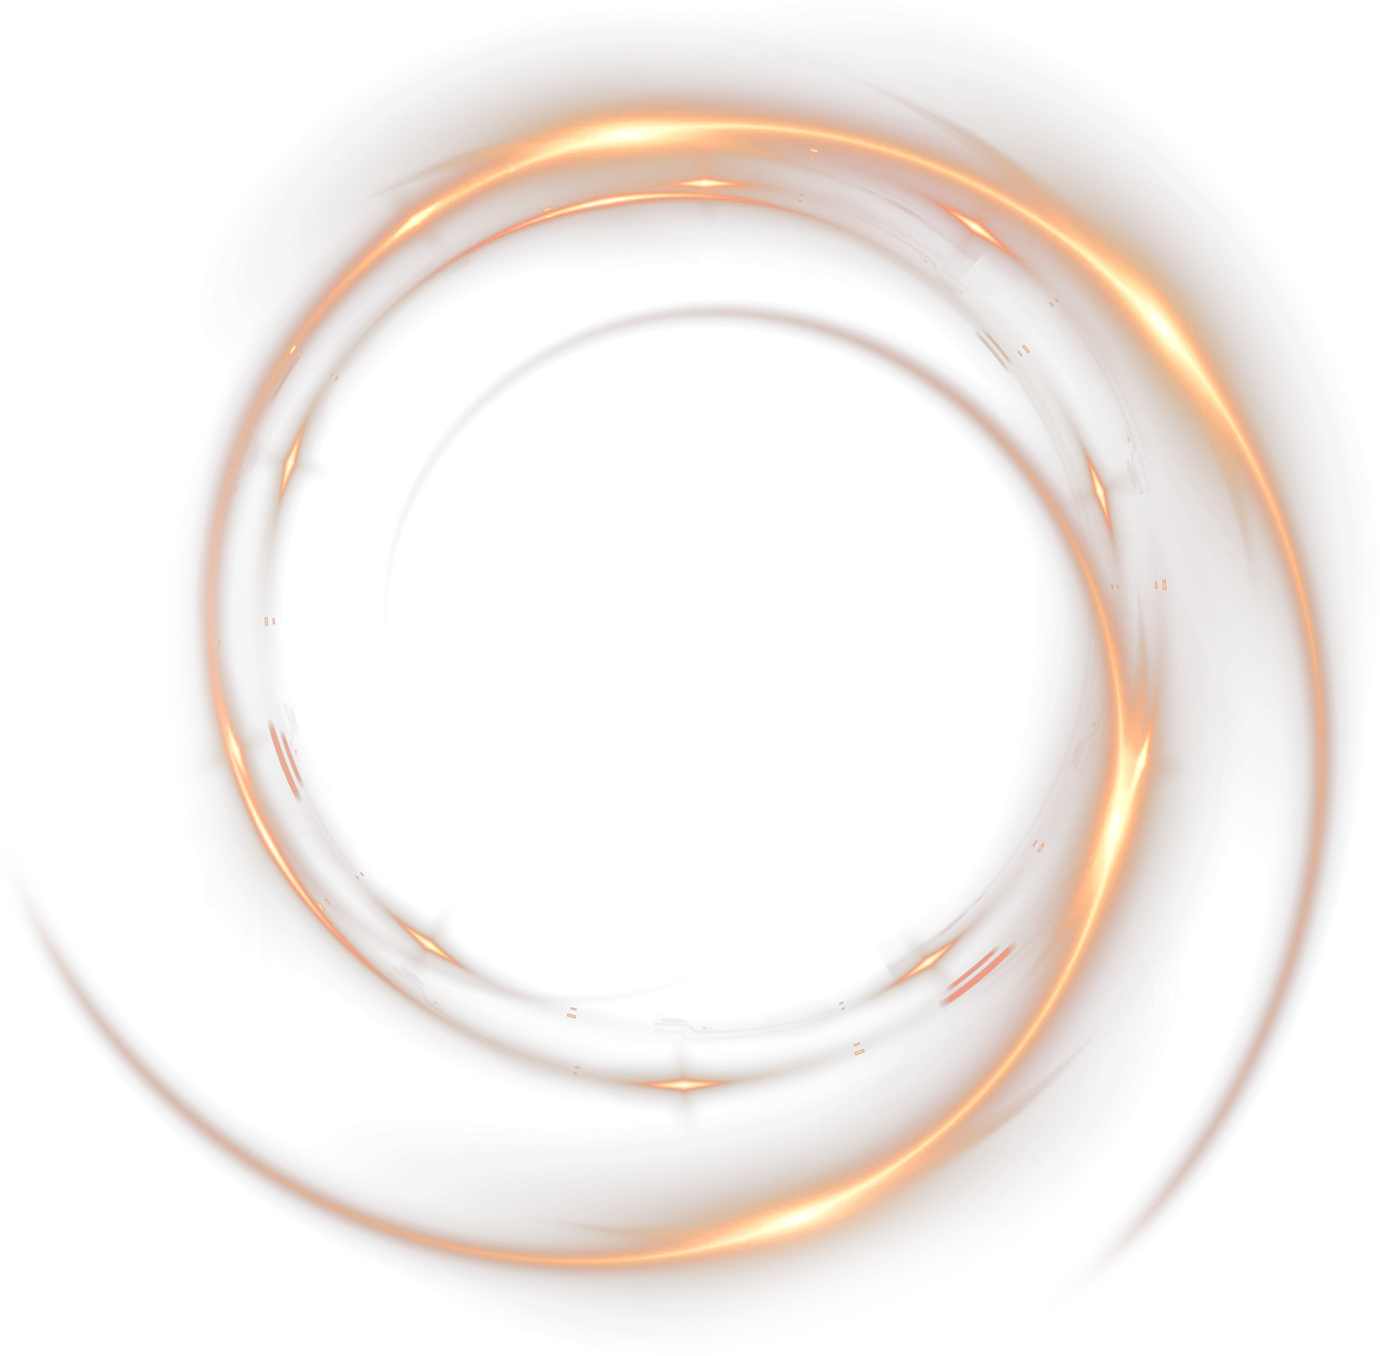
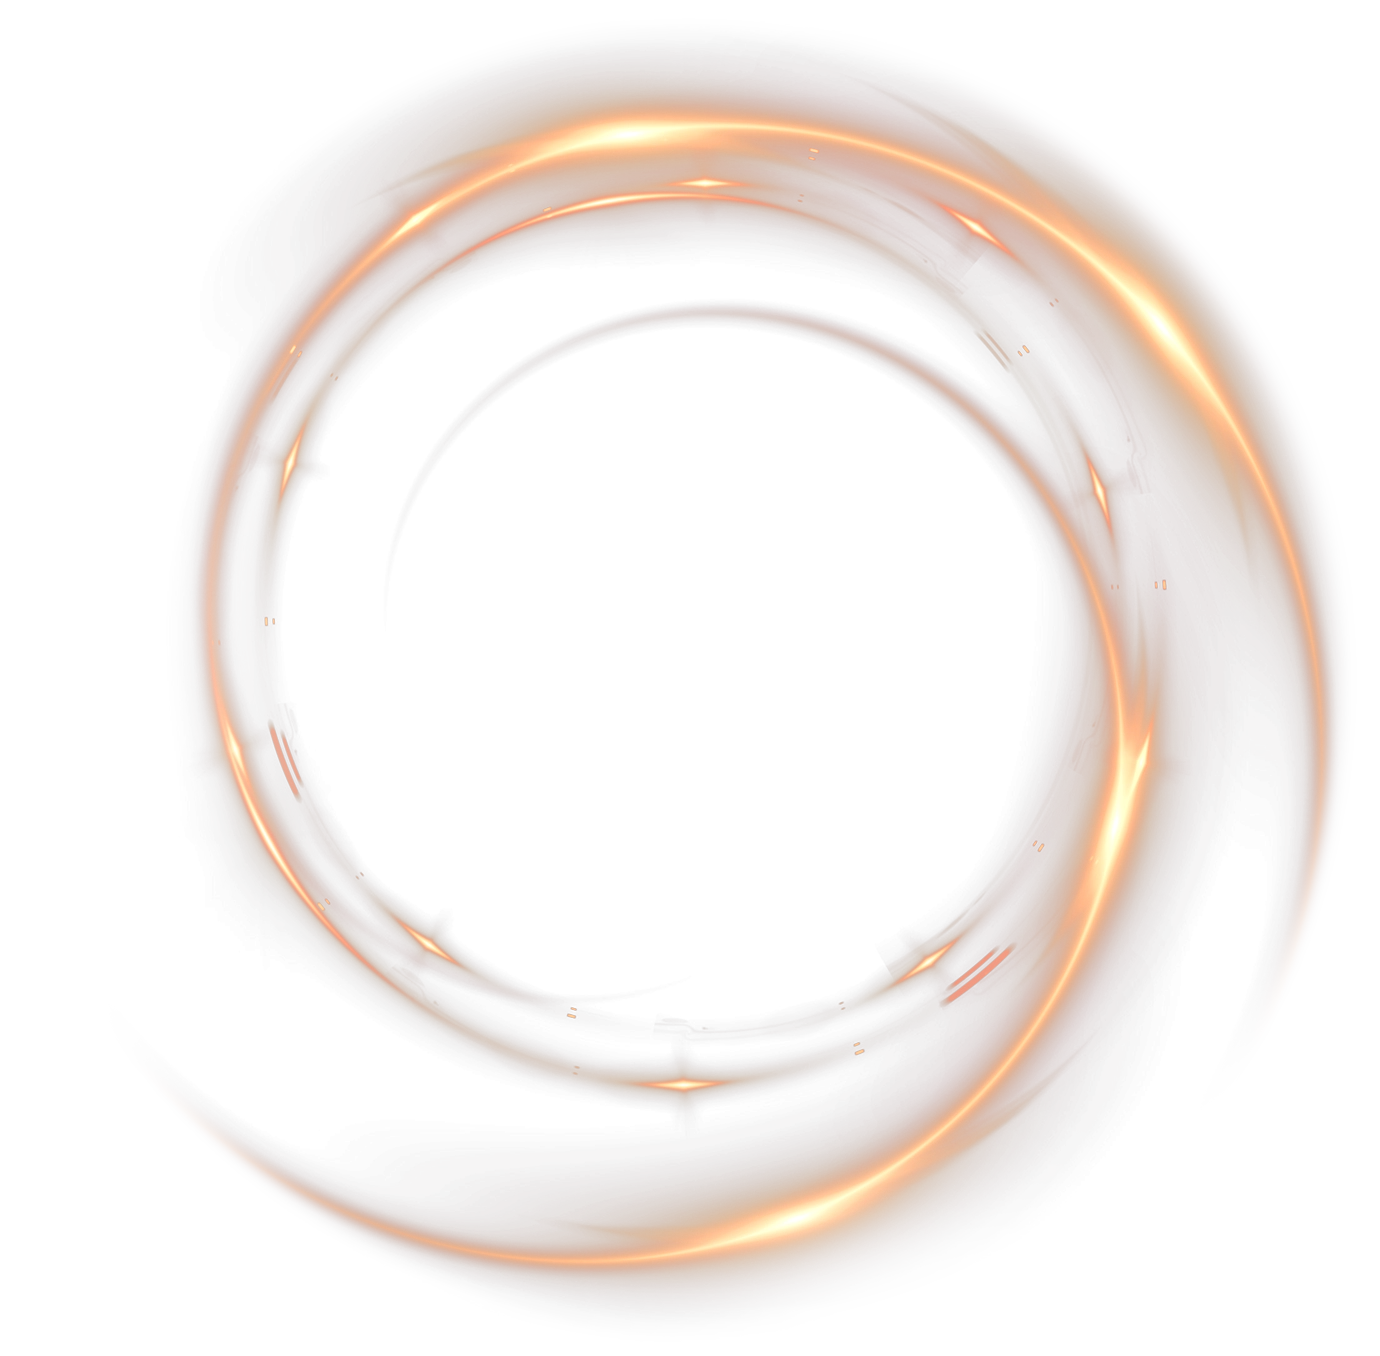
Orbe webp maj, badge mobile +20%, V2 desktop=scroll, phrase ciel V2, fix taps nav
- Nouvelle ORBES.webp (contours nets) ; <img> de secours pointe sur le webp,
  ORBES.png supprimée.
- Badge scrollez/cliquez +20% sur mobile (V1 & V2).
- V2 : verrou + descente auto désormais MOBILE uniquement ; desktop = scroll
  libre identique à V1.
- V2 : phrase "Dessinez sur l'écran pour révéler votre magie" en bas du ciel.
- Fix : taps sur la barre de versions ne sont plus avalés (V1 & V2).

diff --git a/v2.html b/v2.html
@@ -175,6 +175,19 @@
     animation: floaty 3.4s ease-in-out infinite;
     pointer-events: auto; cursor: pointer;   /* V2 : badge cliquable */
   }
+  /* Mobile : badge +20 % */
+  @media (hover: none) and (pointer: coarse) {
+    .scroll-badge { width: clamp(198px, 21vw, 278px); }
+  }
+  /* Phrase d'invite en bas du ciel (fond comme "le compte à rebours…") */
+  .draw-hint {
+    position: absolute; left: 0; right: 0; bottom: 5.5vh; z-index: 12;
+    text-align: center; pointer-events: none;
+    font-size: clamp(0.9rem, 2.4vw, 1.3rem);
+    color: var(--gold-soft); line-height: 1.5;
+    text-shadow: 0 0 18px rgba(201, 168, 76, 0.5);
+    will-change: opacity;
+  }
   @keyframes floaty {
     0%, 100% { transform: translateY(0); opacity: 0.9; }
     50% { transform: translateY(10px); opacity: 1; }
@@ -318,12 +331,14 @@
     <img id="cliquez-badge" class="scroll-badge" src="IMG/cliquez.png" alt="Cliquez pour commencer l'aventure" draggable="false">
   </div>
 
+  <p class="draw-hint">Dessinez sur l'écran<br>pour révéler votre magie</p>
+
   <div class="trans-text">
     <h2>à un nouveau<br>rendez-vous</h2>
   </div>
 
   <div class="forest-stage">
-    <div class="orbe-wrap"><div class="orbe-spin"><picture><source srcset="IMG/ORBES.webp" type="image/webp"><img src="IMG/ORBES.png" alt="" draggable="false"></picture></div></div>
+    <div class="orbe-wrap"><div class="orbe-spin"><picture><source srcset="IMG/ORBES.webp" type="image/webp"><img src="IMG/ORBES.webp" alt="" draggable="false"></picture></div></div>
     <p class="txt txt-prompt">Cliquez et<br>maintenez<br>pour révéler</p>
     <p class="txt txt-date">Rendez-vous<br>sur la Bon'App,<br>le 31 Août 2026,<br><span class="hour">11:11</span></p>
     <p class="txt txt-final">
@@ -425,11 +440,11 @@
   });
   window.addEventListener('mouseup', pressEnd);
 
-  // V2 : scroll manuel bloqué — la descente est pilotée par l'auto-scroll (clic
-  // sur le badge). On ne bloque QUE le touchmove (le geste de défilement) : annuler
-  // le touchstart tuerait les taps (boutons V1/V2, badge). Le touch émet aussi des
-  // particules. On n'émet pas sur les éléments interactifs (barre de version, badge).
-  function isInteractive(t) { return t && t.closest && t.closest('#version-switch, #cliquez-badge'); }
+  // V2 — MOBILE : ciel figé, la descente est pilotée par le clic sur le badge.
+  // On bloque le touchmove (défilement) mais jamais le touchstart (sinon les taps
+  // sur la barre V1/V2/V3 + badge sont avalés). DESKTOP (hasHover) : on ne bloque
+  // rien -> scroll libre identique à V1.
+  function isInteractive(t) { return t && t.closest && t.closest('#version-switch, .scroll-badge'); }
   window.addEventListener('touchstart', function (e) {
     if (isInteractive(e.target)) return;
     const t = e.touches[0];
@@ -439,14 +454,9 @@
     if (isInteractive(e.target)) return;
     const t = e.touches[0];
     emitTo(t.clientX, t.clientY, 1.8);
-    e.preventDefault();                  // verrouille le scroll
+    if (!hasHover) e.preventDefault();   // verrou de scroll : mobile uniquement
   }, { passive: false });
   window.addEventListener('touchend', pressEnd, { passive: true });
-  // Bloque molette + clavier (desktop) pour verrouiller la navigation.
-  window.addEventListener('wheel', function (e) { e.preventDefault(); }, { passive: false });
-  window.addEventListener('keydown', function (e) {
-    if ([' ', 'PageDown', 'PageUp', 'ArrowDown', 'ArrowUp', 'Home', 'End'].includes(e.key)) e.preventDefault();
-  }, { passive: false });
 
 
   /* ============================================================
@@ -458,6 +468,7 @@
   const f2 = document.querySelector('.f2');
   const f3 = document.querySelector('.f3');
   const skyContent = document.querySelector('.sky-content');
+  const drawHint   = document.querySelector('.draw-hint');
 
   const SETTLE_AT = 0.72;   // forêt en place à 72% de la descente, figée ensuite
 
@@ -476,16 +487,27 @@
 
   function updateScroll() {
     const vh = window.innerHeight;
-    // V2 : la progression est pilotée par v2Progress (auto-scroll), pas le scroll réel.
-    const p = clamp(v2Progress, 0, 1);
+    const maxScroll = (document.documentElement.scrollHeight - vh) || 1;
+    // DESKTOP : scroll réel (comme V1). MOBILE : progression virtuelle (auto-scroll).
+    const p = hasHover
+      ? clamp((window.scrollY || window.pageYOffset) / maxScroll, 0, 1)
+      : clamp(v2Progress, 0, 1);
     arrive = completed ? 1 : clamp(p / SETTLE_AT, 0, 1);
 
     // Retour "Recommencer" terminé dès qu'on est près du haut
     if (p < 0.02) returningToTop = false;
 
-    // V2 : pas de scroll réel — la forêt est posée dès que v2Progress atteint SETTLE_AT,
-    // rien à "rattraper". (Bloc d'auto-scroll résiduel de V1 retiré.)
-    if (arrive >= 1 && !forestSettled) forestSettled = true;
+    // Desktop : rattrape le scroll résiduel (28 %) une fois la forêt posée, comme V1.
+    // Mobile : pas de scroll réel, rien à rattraper.
+    if (arrive >= 1 && !forestSettled && !returningToTop) {
+      forestSettled = true;
+      if (hasHover) {
+        clearTimeout(autoScrollTimer);
+        autoScrollTimer = setTimeout(function () {
+          window.scrollTo({ top: document.documentElement.scrollHeight, behavior: 'smooth' });
+        }, 250);
+      }
+    }
 
     // Ciel : léger drift (fond lointain -> bouge le moins)
     ciel.style.transform = 'translateY(' + (-arrive * vh * 0.12).toFixed(1) + 'px) scale(1.05)';
@@ -496,6 +518,9 @@
 
     // Contenu ciel : MONTE et sort par le haut, sans fondu d'opacité
     skyContent.style.transform = 'translateY(' + (-arrive * vh * 1.25).toFixed(1) + 'px)';
+
+    // Phrase d'invite : visible au ciel, disparaît dès qu'on amorce la descente
+    if (drawHint) drawHint.style.opacity = clamp(1 - arrive / 0.18, 0, 1).toFixed(3);
 
     // Texte de transition : positionné entre le ciel et l'orbe. On tombe dessus
     // en scrollant, puis il remonte naturellement (passage unique, défilement
@@ -522,6 +547,7 @@
      rejoue tout le parallax (texte de transition inclus) jusqu'à la forêt.
      ============================================================ */
   function startDescent() {
+    if (hasHover) return;                            // desktop : scroll libre (comme V1)
     if (autoPlaying || v2Progress > 0.02) return;   // une seule fois, depuis le ciel
     autoPlaying = true;
     const dur = 6800;                                // long -> vitesse max faible (message lisible)

diff --git a/index.html b/index.html
@@ -174,6 +174,10 @@
     height: auto;
     animation: floaty 3.4s ease-in-out infinite;
   }
+  /* Mobile : badge +20 % */
+  @media (hover: none) and (pointer: coarse) {
+    .scroll-badge { width: clamp(198px, 21vw, 278px); }
+  }
   @keyframes floaty {
     0%, 100% { transform: translateY(0); opacity: 0.9; }
     50% { transform: translateY(10px); opacity: 1; }
@@ -322,7 +326,7 @@
   </div>
 
   <div class="forest-stage">
-    <div class="orbe-wrap"><div class="orbe-spin"><picture><source srcset="IMG/ORBES.webp" type="image/webp"><img src="IMG/ORBES.png" alt="" draggable="false"></picture></div></div>
+    <div class="orbe-wrap"><div class="orbe-spin"><picture><source srcset="IMG/ORBES.webp" type="image/webp"><img src="IMG/ORBES.webp" alt="" draggable="false"></picture></div></div>
     <p class="txt txt-prompt">Cliquez et<br>maintenez<br>pour révéler</p>
     <p class="txt txt-date">Rendez-vous<br>sur la Bon'App,<br>le 31 Août 2026,<br><span class="hour">11:11</span></p>
     <p class="txt txt-final">
@@ -425,23 +429,23 @@
   window.addEventListener('mouseup', pressEnd);
 
   // Particules au touch PARTOUT (toutes les phases). On ne bloque le scroll
-  // (preventDefault) que pendant la scène de révélation, sinon on laisse
-  // défiler normalement tout en émettant les paillettes sous le doigt.
+  // (preventDefault sur touchmove) que pendant la scène de révélation. On ne
+  // touche jamais au touchstart (sinon les taps sur la barre V1/V2/V3 sont
+  // avalés) et on ignore les éléments interactifs.
   function lockScroll() { return arrive > 0.98; }
+  function isInteractive(t) { return t && t.closest && t.closest('#version-switch, .scroll-badge'); }
   window.addEventListener('touchstart', function (e) {
+    if (isInteractive(e.target)) return;
     const t = e.touches[0];
     pressStart(t.clientX, t.clientY);
-    if (lockScroll()) e.preventDefault();
-  }, { passive: false });
+  }, { passive: true });
   window.addEventListener('touchmove', function (e) {
+    if (isInteractive(e.target)) return;
     const t = e.touches[0];
     emitTo(t.clientX, t.clientY, 1.8);
     if (lockScroll()) e.preventDefault();
   }, { passive: false });
-  window.addEventListener('touchend', function (e) {
-    pressEnd();
-    if (lockScroll()) e.preventDefault();
-  }, { passive: false });
+  window.addEventListener('touchend', pressEnd, { passive: true });
 
 
   /* ============================================================